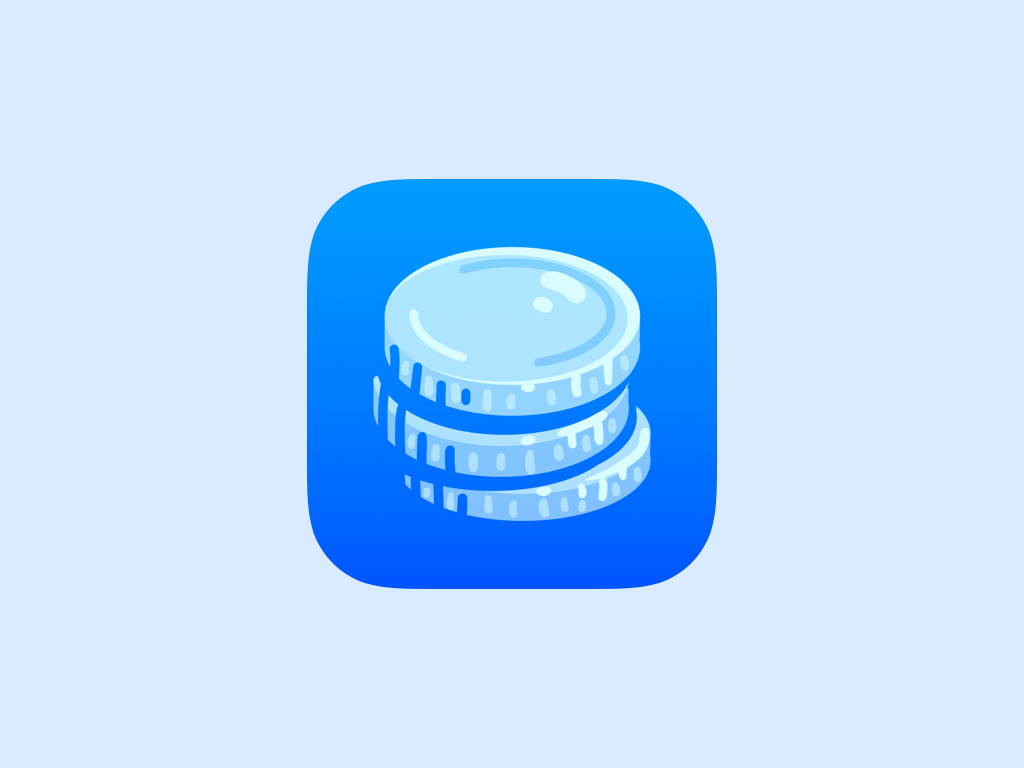
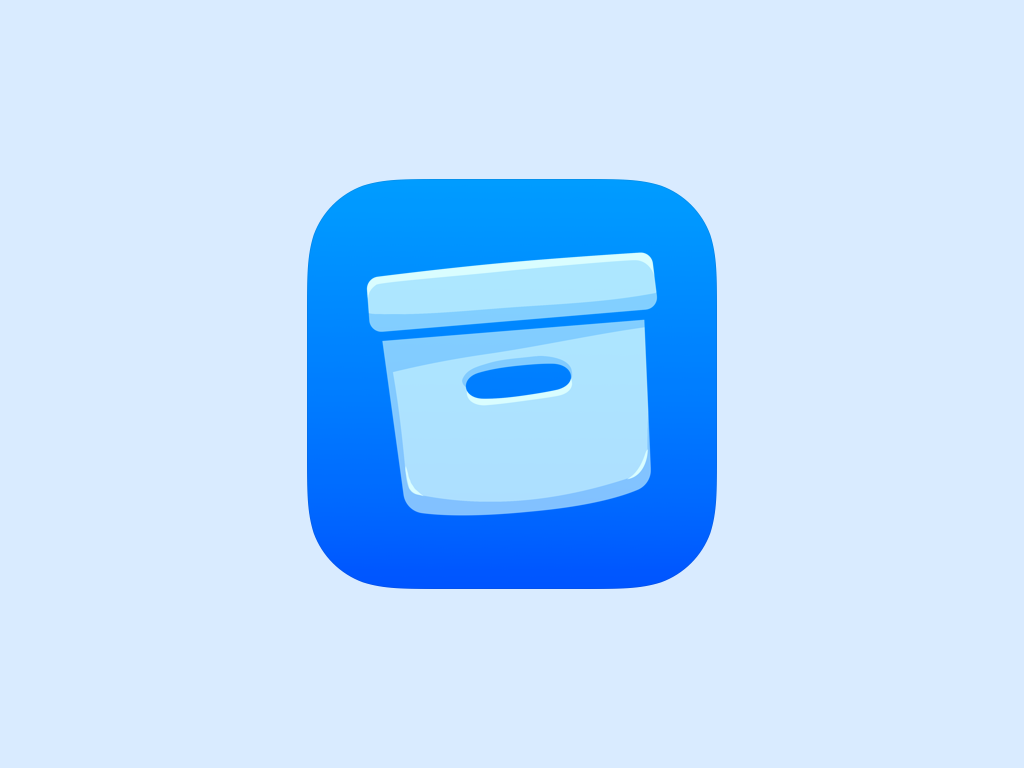
all for today:)

Changed region(s): [[0.3438, 0.3125, 0.6562, 0.6875]]

diff --git a/LoginView.swift b/LoginView.swift
@@ -1,9 +1,8 @@
 import SwiftUI
 import CoreData
-import SQLite3
 
 struct LoginView: View {
-    
+    @State var showCheckInView = false
     @State var email = ""
     @State var password = ""
     @State var showDialog = false
@@ -12,6 +11,9 @@ struct LoginView: View {
     var body: some View {
         NavigationView{
             ZStack  (alignment: .center){
+                NavigationLink(destination: CheckinView(), isActive: self.$showCheckInView) {
+                    EmptyView()
+                }
                 HStack(alignment: .center, spacing: 20) { 
                     VStack (alignment: .center, spacing: 30) { 
                         Image("Login_Image")
@@ -44,11 +46,18 @@ struct LoginView: View {
                         }).frame(width: 250, height: 40, alignment:.trailing)
                         
                         Button {
-                            if self.checked{
-                                
-                            }else {
-                                
+                            SQLManager.shared.getUserData(email: self.email) { user in
+                                if let user = user {
+                                    if self.checked{
+                                        
+                                    }else {
+                                        self.showCheckInView = true
+                                    }
+                                } else {
+                                    //email is not stored in database
+                                }
                             }
+                            
                         } label: {
                             Text("Login")
                                 .padding()
@@ -63,13 +72,6 @@ struct LoginView: View {
                     .frame(width: UIScreen.main.bounds.width / 2)
                 }
             }
-            .onAppear(perform: { 
-                //SQLManager.shared.createUser(table: User.self)
-                //let user = User(id: 1, email: "ashton.reddy@outlook.com", password: "123123")
-                //SQLManager.shared.insertData(user: user)
-                SQLManager.shared.getUserData(id: 1)
-                
-            })
             .background(Color(red: 0.96, green: 0.96, blue: 0.96))
             .actionSheet(isPresented: $showDialog){
                 ActionSheet(title: Text("Select Type"), buttons: [

diff --git a/SQLConnection .swift b/SQLConnection .swift
@@ -146,22 +146,22 @@ extension SQLiteDatabase {
 
 //Read
 extension SQLiteDatabase {
-    func contact(id: Int32) -> User? {
-        let querySql = "SELECT * FROM User WHERE Id = ?;"
+    func contact(email: NSString) -> User? {
+        let querySql = "SELECT * FROM User WHERE Email = ?;"
         guard let queryStatement = try? prepareStatement(sql: querySql) else {
             return nil
         }
         defer {
             sqlite3_finalize(queryStatement)
         }
-        /* guard sqlite3_bind_text(queryStatement, 1, name.utf8String, -1, nil) == SQLITE_OK else {
+        guard sqlite3_bind_text(queryStatement, 1, email.utf8String, -1, nil) == SQLITE_OK else {
          return nil
-         }*/
+         }
         
         
-        guard sqlite3_bind_int(queryStatement, 1, id) == SQLITE_OK else {
+        /*guard sqlite3_bind_int(queryStatement, 1, id) == SQLITE_OK else {
             return nil
-        }
+        }*/
         
         guard sqlite3_step(queryStatement) == SQLITE_ROW else {
             return nil
@@ -172,5 +172,47 @@ extension SQLiteDatabase {
         let queryResultCol2 = sqlite3_column_text(queryStatement, 2)
         let password = String(cString: queryResultCol2!) as NSString
         return User(id: id, email: name, password: password)
+    }
+}
+//Create User Table
+struct StudentCheckIn {
+    let id: Int32
+    let studentId: NSString
+    let checkInTime: NSString
+    let emotion: NSString
+}
+
+
+extension StudentCheckIn: SQLTable {
+    static var createStatement: String {
+        return """
+    CREATE TABLE Student(
+      Id INT PRIMARY KEY NOT NULL,
+      StudentId INT,
+      CheckInTime TEXT,
+      Emotion TEXT
+    );
+    """
+    }
+}
+//Create Student Table
+struct Student {
+    let id: Int32
+    let name: NSString
+    let grade: NSString
+    let photo: NSString
+}
+
+
+extension Student: SQLTable {
+    static var createStatement: String {
+        return """
+    CREATE TABLE Student(
+      Id INT PRIMARY KEY NOT NULL,
+      Name CHAR(255),
+      Grade CHAR(255),
+      Photo TEXT
+    );
+    """
     }
 }

diff --git a/CheckinView.swift b/CheckinView.swift
@@ -2,16 +2,23 @@
 import SwiftUI
 
 struct CheckinView: View {
-    @State var image: Image = Image("")
+    @State var image = Data(count: 0)
     @State var showCameraView: Bool = false
     @State var sleepScreen: Bool = false
     @State var takePhoto: Bool = false
-    
+    @State var showRegister = false
+    @State var showStudentFoundView = false
     var body: some View {
         
             ZStack(alignment: .center) { 
+                NavigationLink(destination: RegisterStudent(userImage: self.image) , isActive: self.$showRegister) {
+                    EmptyView()
+                }
+                NavigationLink(destination: StudentFoundView(userImage: self.image) , isActive: self.$showStudentFoundView) {
+                    EmptyView()
+                }
                 VStack{
-                    self.image
+                    Image(uiImage: UIImage(data: self.image) ?? UIImage())
                         .resizable()
                         .frame(width: 250,height: 250)
                         .cornerRadius(10)
@@ -25,14 +32,19 @@ struct CheckinView: View {
                             .cornerRadius(8)
                             .foregroundColor(Color.black)
                     }
-                    
-                    NavigationLink(  destination: StudentFoundView(userImage: self.image) , isActive: self.$sleepScreen) { 
+                    Button { 
+                        self.showRegister = true
+                    } label: { 
                         Text("Submit Photo")
                             .frame(width: 250, height: 40)
                             .background(Color.white)
                             .cornerRadius(8)
                             .foregroundColor(Color.black)
                     }
+                    
+                    
+                        
+                    
                 }
                 .padding(.vertical)
                 

diff --git a/SQLManager.swift b/SQLManager.swift
@@ -24,18 +24,37 @@ class SQLManager {
         }
     }
     
-    
-    func insertData(user: User){
+    func createStudentTable(table: SQLTable.Type){
+        do{
+            try db.createTable(table: Student.self)
+        } catch{
+            print(db.errorMessage)
+        }
+        
+    }
+    func createStudentCheckInTable(table: SQLTable.Type){
         do {
-            try db.insertContact(user: user)
+            try db.createTable(table: table)
         } catch {
             print(db.errorMessage)
         }
     }
     
-    func getUserData(id: Int32){
-        let user = db.contact(id: id)
-        print("\(user?.id ?? 0) \(user?.email ?? "") \(user?.password ?? "")")
-    }
+        
+        
+        func insertData(user: User){
+            do {
+                try db.insertContact(user: user)
+            } catch {
+                print(db.errorMessage)
+            }
+        }
+        func getUserData(email: String, completionHandler: @escaping (User?) -> Void){
+            completionHandler(db.contact(email: email as NSString))
+        }
+        
+        
+        
+        
     
 }

diff --git a/CustomCameraView.swift b/CustomCameraView.swift
@@ -3,7 +3,7 @@ import UIKit
 
 
 struct CustomCameraView: UIViewControllerRepresentable {
-    @Binding var image: Image
+    @Binding var image: Data
     @Binding var showCameraView: Bool
     func makeCoordinator() -> CustomCameraView.Coordinator {
         Coordinator(cameraView: self)
@@ -27,8 +27,8 @@ struct CustomCameraView: UIViewControllerRepresentable {
             
         }
         func imagePickerController(_ picker: UIImagePickerController, didFinishPickingMediaWithInfo info: [UIImagePickerController.InfoKey : Any]) {
-            let image = info[.originalImage] ?? UIImage()
-            self.parent.image = Image(uiImage: image as! UIImage)
+            let image = info[UIImagePickerController.InfoKey.originalImage] as! UIImage
+            self.parent.image = image.pngData() ?? Data(count: 0)
             self.parent.showCameraView = false
         }
         func imagePickerControllerDidCancel(_ picker: UIImagePickerController) {

diff --git a/RegisterView.swift b/RegisterView.swift
@@ -1,7 +1,7 @@
 import SwiftUI
 
 struct RegisterStudent: View {
-    
+    @State var userImage: Data = Data(count: 0)
     @State var studentFirstName: String = ""
     @State var studentLastName: String = ""
     @State var studentGrade: String = ""
@@ -21,12 +21,9 @@ struct RegisterStudent: View {
                 .font(.system(size: 40))
             
             HStack (alignment: .center, spacing: 30){
-                Button {
-                    print("add photo button was tapped")
-                } label: {
-                    Image(systemName:"photo.fill.on.rectangle.fill")
-                        .font(.system(size: 350))
-                }
+                Image(uiImage: UIImage(data: self.userImage) ?? UIImage())
+                    .resizable()
+                    .frame(width: 250, height: 350)
                 VStack {
                     HStack{
                         

diff --git a/StudentFoundView.swift b/StudentFoundView.swift
@@ -1,10 +1,10 @@
 import SwiftUI
 
 struct StudentFoundView: View {
-    @State var userImage: Image = Image("")
+    @State var userImage: Data = Data(count: 0)
     var body: some View {
         HStack {
-            self.userImage
+            Image(uiImage: UIImage(data: self.userImage) ?? UIImage())
                 .resizable()
                 .frame(width: 400, height: 600)
             VStack(alignment: .leading, spacing: 10) {

diff --git a/Package.swift b/Package.swift
@@ -18,7 +18,7 @@ let package = Package(
             targets: ["AppModule"],
             displayVersion: "1.0",
             bundleVersion: "1",
-            appIcon: .placeholder(icon: .coins),
+            appIcon: .placeholder(icon: .box),
             accentColor: .presetColor(.blue),
             supportedDeviceFamilies: [
                 .pad,
